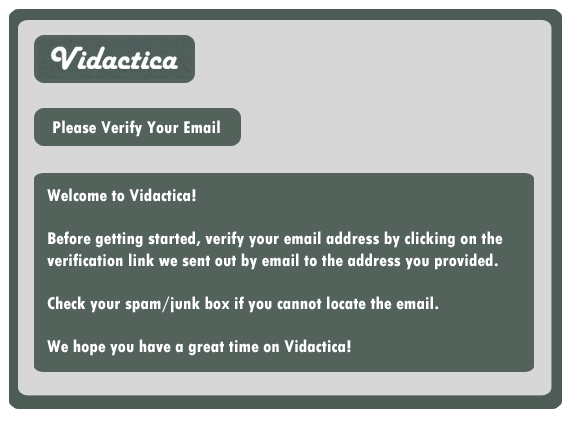
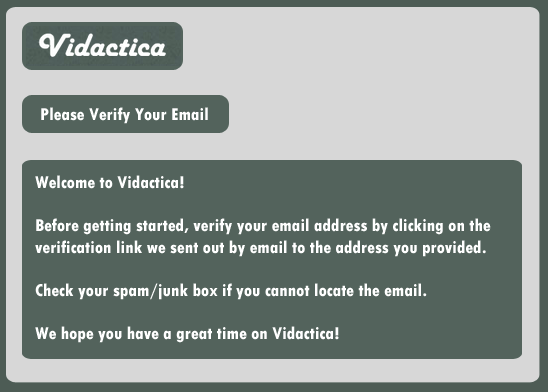
changed background image to img tag

diff --git a/public/stylesheets/custom.css b/public/stylesheets/custom.css
@@ -537,7 +537,7 @@ h2 b.caret-myquestions
 
 #regWithVid-modal .modal-body
 {
-	background-image: url(/images/vidacticaVerification.png);
+	/*background-image: url(/images/vidacticaVerification.png);*/
 }
 
 .navbar-search .search-query
